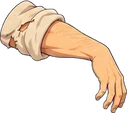
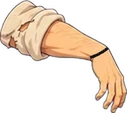
프롤로그: 간부·병사 걷기 스프라이트, 마석→검은 결정 문구, 유언 팔 컷 손목 고리
Claude-Session: https://claude.ai/code/session_01SwHSdbEEaZJxcHmirHV4co

Changed region(s): [[0.685, 0.3982, 0.874, 0.531], [0.8268, 0.9292, 0.8504, 0.9558]]

diff --git a/games/autelia/js/story1.js b/games/autelia/js/story1.js
@@ -53,10 +53,10 @@ window.AU = window.AU || {};
       { id: "barsha_lens", img: "", x: 640, kind: "investigate", label: "황동 돋보기와 쇳조각", lines: [
         L(B(), "이건 평범한 잡쇠가 아니야. ...이 제련법은 대륙 동부 오르비스 가문의 비밀 공방에서나 쓰는 강철이다."),
         L(B(), "빛의 신전을 수호한다는 가문의 고결한 흑철이지. 그런데 안쪽에 붉은 핏줄처럼 터져 있는 이 결..."),
-        L(B(), "어둠의 마석을 섞어 강도를 올린 거다. 빛의 가문이 마석에 손댔다면, 시장엔 절대 나올 수 없는 물건이지."),
-        L(HERO, "(마석... 어둠의 기운이 굳은 광물이라고만 들었는데, 신전 가문의 강철 속에 섞여 있다니.)")] },
+        L(B(), "어둠의 검은 결정을 섞어 강도를 올린 거다. 빛의 가문이 검은 결정에 손댔다면, 시장엔 절대 나올 수 없는 물건이지."),
+        L(HERO, "(검은 결정... 어둠의 기운이 굳은 광물이라고만 들었는데, 신전 가문의 강철 속에 섞여 있다니.)")] },
       { id: "barsha_map", img: "", x: 1010, kind: "investigate", label: "구겨진 양피지 지도", lines: [
-        L(B(), "이 '검은 물결'은 마석과 잡쇠를 암거래하는 비밀 상단 '블랙 웨이브'의 표식이다."),
+        L(B(), "이 '검은 물결'은 검은 결정과 잡쇠를 암거래하는 비밀 상단 '블랙 웨이브'의 표식이다."),
         L(B(), "매달 포르투 노바 북쪽 경계선으로 이런 쇳덩이들을 실어 나르지. 다만 상단은 심부름꾼일 뿐이야."),
         L(B(), "누가 무엇을 위해 시키는지는 나도 모른다.")] }
     ],
@@ -72,7 +72,7 @@ window.AU = window.AU || {};
     spots: [
       { id: "valley_crates", img: "ob_trace_crate", x: 520, kind: "investigate", label: "불도장 찍힌 궤짝", lines: [
         "절벽 틈에서 내려다본 하차장입니다. 검은 옷의 용병 수십 명이 짐수레에서 묵직한 궤짝을 끊임없이 나르고 있습니다.",
-        "궤짝 옆면마다 불도장으로 찍힌 '검은 물결' 표식이 선명합니다. 구석에서는 계약에 묶인 인부들이 마석 원석을 다듬고 있습니다."] },
+        "궤짝 옆면마다 불도장으로 찍힌 '검은 물결' 표식이 선명합니다. 구석에서는 계약에 묶인 인부들이 검은 결정 원석을 다듬고 있습니다."] },
       { id: "relay_tent", img: "", x: 1700, kind: "investigate", label: "중심 천막 밑 대화", lines: [
         "중심 천막 아래에서 두 사람이 낮게 이야기하고 있습니다.",
         "가죽 채찍을 찬 사내는 상단 감독관 클로드. 흰 인장 로브로 핏빛 원석을 들여다보는 사내는 오르비스 가문의 검수관 발테인입니다.",
@@ -137,7 +137,7 @@ window.AU = window.AU || {};
       reminder: ["통나무와 판자의 결을 읽고, 늑대를 상대로 단련하게. 서두를 것 없네."],
       done: [L(J(), "...됐네. 결을 보는 눈이 제법 자랐군. 이 도면 부품과 숫돌 쓰는 법을 몸으로 익히게."),
              L(J(), "영감은 남쪽 하층민 구역으로 숨어들 테니 걱정 말게. 네 손은 부서진 나무나 고치는 손만이 아니야. 절대 꺾이지 마라."),
-             L(J(), "오르비스 놈들의 비밀을 파헤치려면 서부의 마석 채굴장으로 가야 하지. 길은 험하니 반드시 살아남게."),
+             L(J(), "오르비스 놈들의 비밀을 파헤치려면 서부의 검은 결정 채굴장으로 가야 하지. 길은 험하니 반드시 살아남게."),
              L(HERO, "영감님도 조심하십시오. 반드시 살아남으십시오.")],
       reward: { exp: 1400, silver: 150, items: [["jepeto_blueprint", 1], ["potion", 3]] },
       setFlags: { act1_done: true },

diff --git a/games/autelia/js/prologue/data.js b/games/autelia/js/prologue/data.js
@@ -24,6 +24,8 @@ window.AU = window.AU || {};
   AR.ch.player_f_work = { frames: 4, names: ["carry", "give", "swing_up", "swing_dn"], separate: {}, cw: 300, ch: 345, standH: 300, foot: 150 };
   AR.ch.player_m_bag = { frames: 7, names: ["stand", "walk1", "walk2", "walk3", "walk4", "jump_up", "jump_down"], separate: {}, cw: 210, ch: 310, standH: 300, foot: 105 };   // 가방을 멘 이동 시트(남)
   AR.ch.player_f_bag = { frames: 7, names: ["stand", "walk1", "walk2", "walk3", "walk4", "jump_up", "jump_down"], separate: {}, cw: 210, ch: 310, standH: 300, foot: 105 };   // 가방을 멘 이동 시트(여)
+  AR.ch.raider_officer_walk = { frames: 4, names: ["walk1", "pass1", "walk2", "pass2"], separate: {}, cw: 193, ch: 250, standH: 249, foot: 248 };   // 간부 걷기(가슴에 작은 검은 고리 문장, 확정 34)
+  for (const [w, cw, ch] of [["axe", 198, 295], ["spear", 199, 301], ["mace", 206, 295]]) AR.ch["raider_" + w + "_walk"] = { frames: 4, names: ["walk1", "pass1", "walk2", "pass2"], separate: {}, cw, ch, standH: ch - 1, foot: ch - 2 };   // 습격자 병사 걷기
   AR.ch.raider_officer = { frames: 3, names: ["ready", "raise", "slash"], separate: {}, cw: 276, ch: 313, standH: 250, foot: 308 };   // 간부의 검 동작(준비·치켜듦·내리침)
   AR.ch.father_hit = { frames: 3, names: ["guard", "hit", "fall"], separate: {}, cw: 277, ch: 284, standH: 275, foot: 279 };   // 아버지가 막아서고 맞고 무너지는 동작
   for (const [w, ch] of [["axe", 300], ["spear", 306], ["mace", 300]]) AR.ch["raider_" + w] = { frames: 3, names: ["stand", "walk1", "walk2"], separate: {}, cw: 240, ch, standH: 295, foot: ch - 5 };   // 습격자 무기 변형(도끼·창·철퇴). 허리 검을 찬 기본형은 raider_actions

diff --git a/games/autelia/js/prologue/scenes.js b/games/autelia/js/prologue/scenes.js
@@ -23,7 +23,9 @@ window.AU = window.AU || {};
         const moving = e.pause <= 0, cyc = (e.step / 46) % 1, fr = !moving ? "stand" : cyc < 0.25 ? "walk1" : cyc < 0.5 ? "stand" : cyc < 0.75 ? "walk2" : "stand";
         const bob = moving ? Math.abs(Math.sin(cyc * Math.PI * 2)) * 3.2 : Math.sin(P.time * 1.6 + e.ph) * 1.1, sway = moving ? Math.sin(cyc * Math.PI * 2) * 0.018 : 0;
         ctx.save(); ctx.globalAlpha = e.alpha == null ? (A.has("pc_raider_actions") ? 1 : 0.78) : e.alpha; ctx.translate(e.x, e.y - bob); ctx.rotate(sway * e.face + (e.tilt || 0) * e.face); ctx.translate(-e.x, -e.y);
-        if (e.pose && A.has("pc_raider_officer")) A.spr(ctx, "pc_raider_officer", e.pose, e.x, e.y, e.face, e.s / 0.5);   // 간부의 검 동작(준비·치켜듦·내리침)
+        const wsh = moving && (e.id === "off" ? (!e.pose || e.pose === "ready") && "pc_raider_officer_walk" : "pc_" + e.wk + "_walk"), WF = ["walk1", "pass1", "walk2", "pass2"];   // 4프레임 걷기 시트가 있으면 사용(간부는 검 동작 자세가 아닐 때만)
+        if (wsh && A.has(wsh)) A.spr(ctx, wsh, WF[Math.floor(e.step / 18) % 4], e.x, e.y, e.face, e.s / 0.5);
+        else if (e.pose && A.has("pc_raider_officer")) A.spr(ctx, "pc_raider_officer", e.pose, e.x, e.y, e.face, e.s / 0.5);   // 간부의 검 동작(준비·치켜듦·내리침)
         else if (!A.spr(ctx, "pc_" + (A.has("pc_" + e.wk) ? e.wk : "raider_actions"), fr, e.x, e.y, e.face, e.s / 0.5)) A.raider(ctx, e.x, e.y, e.s, P.time, e.face); ctx.restore(); } });
   }
   const SHEETS = "abcdefghijklm".split("").filter(() => true); // 주민 동작 시트(a~c 1차, d~m NPC 다양화). 없는 시트는 runner/crowd 에서 건너뜀

diff --git a/tools/art/pack_walk.py b/tools/art/pack_walk.py
@@ -1,10 +1,11 @@
 #!/usr/bin/env python3
 """걷기 시트 패커: ChatGPT가 만든 가로 4칸 마젠타 시트 → 투명 webp(villager_<k>_walk.webp).
-사용(games/autelia 에서): python3 ../../tools/art/pack_walk.py <입력.png> <k>
+사용(games/autelia 에서): python3 ../../tools/art/pack_walk.py <입력.png> <k> [H] [출력이름]
 마젠타 제거(+가장자리 번짐 제거), 4칸 분리, 기존 대기 그림과 같은 키(303)로 맞춤, 머리 x·발 바닥선을 칸마다 고정."""
 import sys, numpy as np
 from PIL import Image
-src, k = sys.argv[1], sys.argv[2]; H = int(sys.argv[3]) if len(sys.argv) > 3 else 303   # H: 서 있을 때 인물 키(대기·환호 시트의 ch와 같게)
+src, k = sys.argv[1], sys.argv[2]; OUT = sys.argv[4] if len(sys.argv) > 4 else f'villager_{k}_walk'   # 4번째 인자: 출력 파일명(예: raider_officer_walk)
+H = int(sys.argv[3]) if len(sys.argv) > 3 else 303   # H: 서 있을 때 인물 키(대기·환호 시트의 ch와 같게)
 im = np.array(Image.open(src).convert('RGB')).astype(float)
 r, g, b = im[..., 0], im[..., 1], im[..., 2]
 mag = np.clip((np.minimum(r, b) - g - 40) / 90.0, 0, 1)
@@ -29,5 +30,5 @@ sheet = Image.new('RGBA', (W * n, H), (0, 0, 0, 0))
 for i, (c, hx, y1) in enumerate(crops):
     ox = int(round(W / 2 - hx)); oy = H - c.height - 1 - int(round((base - y1) * s))
     sheet.alpha_composite(c, (i * W + max(0, ox), max(0, oy)))
-sheet.save(f'assets/prologue/ch/villager_{k}_walk.webp', quality=92, method=6)
+sheet.save(f'assets/prologue/ch/{OUT}.webp', quality=92, method=6)
 open('/tmp/walk_meta.txt', 'a').write(f'{k} {W} {H}\n'); print('frame', W, 'x', H, 'scale', round(s, 3), 'bbox', fr)
